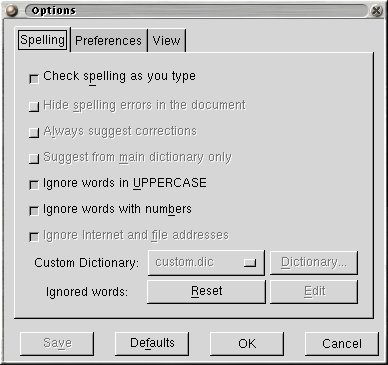
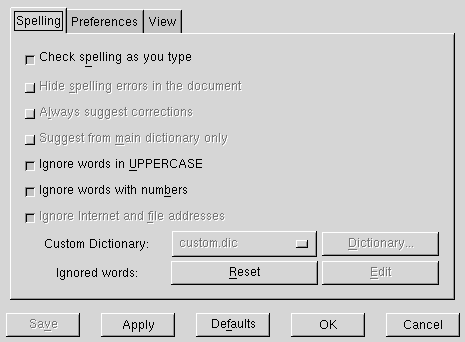
added the apply button feature to the options dialog box
git-svn-id: svn+ssh://svn.abisource.com/svnroot/abiword/trunk@2076 bcba8976-2d24-0410-9c9c-aab3bd5fdfd6

Changed region(s): [[0.0, 0.0, 1.0, 1.0], [0.0928, 0.7018, 0.3402, 0.731], [0.1237, 0.7895, 0.3402, 0.8187]]

diff --git a/src/wp/ap/unix/ap_UnixDialog_Options.cpp b/src/wp/ap/unix/ap_UnixDialog_Options.cpp
@@ -122,24 +122,31 @@ void AP_UnixDialog_Options::runModal(XAP_Frame * pFrame)
     gtk_grab_add(mainWindow);
 
     // Run into the GTK event loop for this window.
-    gtk_main();
+	do {
+		gtk_main();
 
-	switch ( m_answer )
-	{
-	case AP_Dialog_Options::a_OK:
-		_storeWindowData();
-		break;
+		switch ( m_answer )
+		{
+		case AP_Dialog_Options::a_OK:
+			_storeWindowData();
+			break;
 
-	case AP_Dialog_Options::a_CANCEL:
-		break;
+		case AP_Dialog_Options::a_APPLY:
+			UT_DEBUGMSG(("Applying changes"));
+			_storeWindowData();
+			break;
 
-	default:
-		UT_ASSERT(UT_SHOULD_NOT_HAPPEN);
-		break;
-	};
+		case AP_Dialog_Options::a_CANCEL:
+			break;
 
-    
-    gtk_widget_destroy(mainWindow);
+		default:
+			UT_ASSERT(UT_SHOULD_NOT_HAPPEN);
+			break;
+		};
+
+	} while ( m_answer == AP_Dialog_Options::a_APPLY );	
+	
+	gtk_widget_destroy(mainWindow);
 }
 
 void AP_UnixDialog_Options::event_OK(void)
@@ -151,6 +158,12 @@ void AP_UnixDialog_Options::event_OK(void)
 void AP_UnixDialog_Options::event_Cancel(void)
 {
     m_answer = AP_Dialog_Options::a_CANCEL;
+    gtk_main_quit();
+}
+
+void AP_UnixDialog_Options::event_Apply(void)
+{
+    m_answer = AP_Dialog_Options::a_APPLY;
     gtk_main_quit();
 }
 
@@ -180,6 +193,7 @@ GtkWidget* AP_UnixDialog_Options::_constructWindow ()
 	GtkWidget *hbuttonbox2;
 	GtkWidget *buttonSave;
 	GtkWidget *buttonDefaults;
+	GtkWidget *buttonApply;
 	GtkWidget *buttonOk;
 	GtkWidget *buttonCancel;
 	GtkWidget *notebook1;
@@ -254,6 +268,15 @@ GtkWidget* AP_UnixDialog_Options::_constructWindow ()
 	gtk_widget_show (buttonSave);
 	gtk_container_add (GTK_CONTAINER (hbuttonbox2), buttonSave);
 	GTK_WIDGET_SET_FLAGS (buttonSave, GTK_CAN_DEFAULT);
+
+	buttonApply = gtk_button_new_with_label ( 
+							pSS->getValue(AP_STRING_ID_DLG_Options_Btn_Apply ));
+	gtk_widget_ref (buttonApply);
+	gtk_object_set_data_full (GTK_OBJECT (windowOptions), "buttonApply", buttonApply,
+	                          (GtkDestroyNotify) gtk_widget_unref);
+	gtk_widget_show (buttonApply);
+	gtk_container_add (GTK_CONTAINER (hbuttonbox2), buttonApply);
+	GTK_WIDGET_SET_FLAGS (buttonApply, GTK_CAN_DEFAULT);
 
 	buttonDefaults = gtk_button_new_with_label ( 
 							pSS->getValue(AP_STRING_ID_DLG_Options_Btn_Default ));
@@ -662,6 +685,11 @@ GtkWidget* AP_UnixDialog_Options::_constructWindow ()
                        GTK_SIGNAL_FUNC(s_defaults_clicked),
                        (gpointer) this);
 
+    gtk_signal_connect(GTK_OBJECT(buttonApply),
+                       "clicked",
+                       GTK_SIGNAL_FUNC(s_apply_clicked),
+                       (gpointer) this);
+
     gtk_signal_connect(GTK_OBJECT(buttonSpellIgnoreEdit),
                        "clicked",
                        GTK_SIGNAL_FUNC(s_ignore_edit_clicked),
@@ -726,6 +754,7 @@ GtkWidget* AP_UnixDialog_Options::_constructWindow ()
 
     m_buttonSave					= buttonSave;
     m_buttonDefaults				= buttonDefaults;
+    m_buttonApply					= buttonApply;
     m_buttonOK						= buttonOk;
     m_buttonCancel					= buttonCancel;
 
@@ -854,6 +883,10 @@ GtkWidget *AP_UnixDialog_Options::_lookupWidget ( tControl id )
 
 	case id_BUTTON_CANCEL:
 		return m_buttonCancel;
+		break;
+
+	case id_BUTTON_APPLY:
+		return m_buttonApply;
 		break;
 
 	default:
@@ -999,6 +1032,13 @@ void    AP_UnixDialog_Options::_setNotebookPageNum(int pn)
 	AP_UnixDialog_Options * dlg = (AP_UnixDialog_Options *)data;
 	UT_ASSERT(widget && dlg); 
 	dlg->event_Cancel(); 
+}
+
+/*static*/ void AP_UnixDialog_Options::s_apply_clicked(GtkWidget * widget, gpointer data )
+{ 
+	AP_UnixDialog_Options * dlg = (AP_UnixDialog_Options *)data;
+	UT_ASSERT(widget && dlg); 
+	dlg->event_Apply(); 
 }
 
 /*static*/ void AP_UnixDialog_Options::s_delete_clicked(GtkWidget * /* widget */, gpointer data )

diff --git a/src/wp/ap/xp/ap_Dialog_Options.h b/src/wp/ap/xp/ap_Dialog_Options.h
@@ -37,8 +37,7 @@ class AP_Dialog_Options : public XAP_Dialog_NonPersistent
 	virtual void	runModal(XAP_Frame * pFrame) = 0;
 
 	// answer from dialog
-	typedef enum { a_OK, a_CANCEL, a_SAVE } tAnswer;
-	typedef enum { unit_IN, unit_CM, unit_POINTS  } tUnits;
+	typedef enum { a_OK, a_CANCEL, a_SAVE, a_APPLY } tAnswer;
 
 	// control ids
 	typedef enum { id_CHECK_SPELL_CHECK_AS_TYPE = 0, id_CHECK_SPELL_HIDE_ERRORS,
@@ -56,14 +55,13 @@ class AP_Dialog_Options : public XAP_Dialog_NonPersistent
 				   id_CHECK_VIEW_UNPRINTABLE,
 
 				   id_BUTTON_SAVE, id_BUTTON_DEFAULTS, 
-				   id_BUTTON_OK, id_BUTTON_CANCEL,
+				   id_BUTTON_OK, id_BUTTON_CANCEL, id_BUTTON_APPLY,
 			
 				   id_last } tControl;
 
-	typedef enum { check_FALSE = 0, check_TRUE, check_INDETERMINATE } tCheckState;
+	// typedef enum { check_FALSE = 0, check_TRUE, check_INDETERMINATE } tCheckState;
 
 	AP_Dialog_Options::tAnswer	getAnswer(void) const;
-
 
  protected:
 

diff --git a/src/wp/ap/unix/ap_UnixDialog_Options.h b/src/wp/ap/unix/ap_UnixDialog_Options.h
@@ -106,6 +106,7 @@ public:
 
 	GtkWidget * m_buttonSave;
 	GtkWidget * m_buttonDefaults;
+	GtkWidget * m_buttonApply;
 	GtkWidget * m_buttonOK;
 	GtkWidget * m_buttonCancel;
 
@@ -113,6 +114,7 @@ protected:
 	// Unix call back handlers
 	static void s_ok_clicked			( GtkWidget *, gpointer );
 	static void s_cancel_clicked		( GtkWidget *, gpointer );
+	static void s_apply_clicked			( GtkWidget *, gpointer );
 	static void s_delete_clicked		( GtkWidget *, gpointer );
 	static void s_ignore_reset_clicked	( GtkWidget *, gpointer );
 	static void s_ignore_edit_clicked	( GtkWidget *, gpointer );
@@ -125,6 +127,7 @@ protected:
 	// callbacks can fire these events
     virtual void event_OK(void);
     virtual void event_Cancel(void);
+    virtual void event_Apply(void);
     virtual void event_WindowDelete(void);
 
 };

diff --git a/src/wp/ap/xp/ap_String_Id.h b/src/wp/ap/xp/ap_String_Id.h
@@ -133,6 +133,7 @@ dcl(DLG_Options_TabLabel_Preferences,	"Preferences")
 dcl(DLG_Options_TabLabel_View,			"View")
 
 dcl(DLG_Options_Btn_Save,				"Sa&ve")
+dcl(DLG_Options_Btn_Apply,				"Apply")
 dcl(DLG_Options_Btn_Default,			"De&faults")
 
 dcl(DLG_Options_Label_SpellCheckAsType,	"Check s&pelling as you type")
